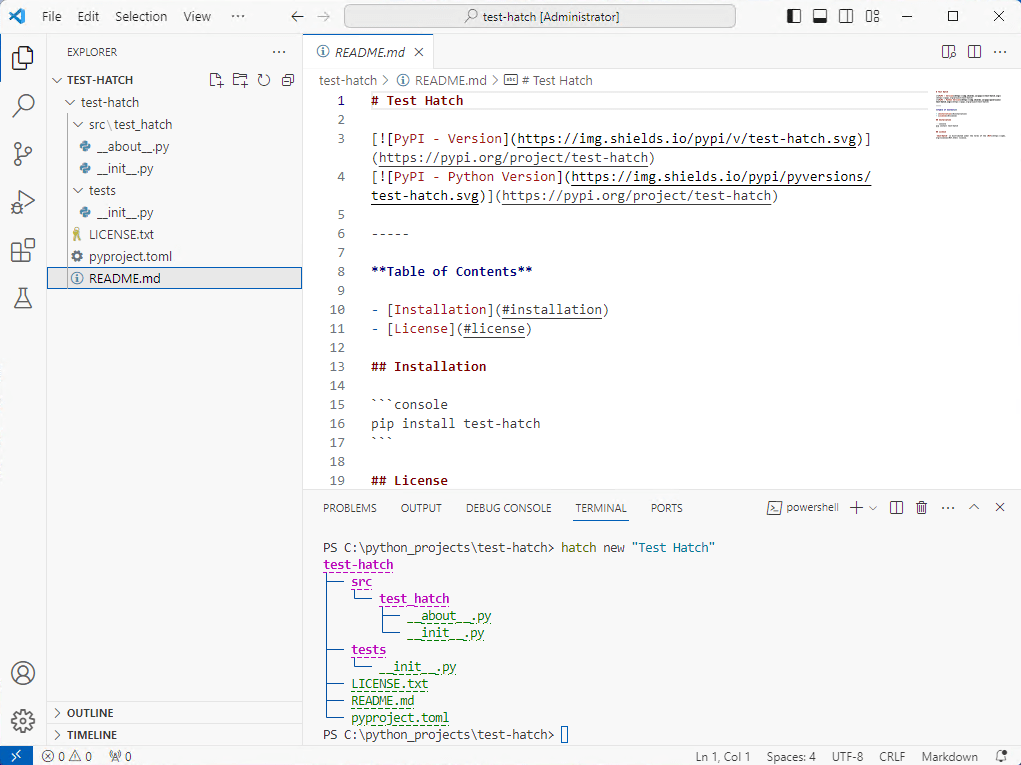
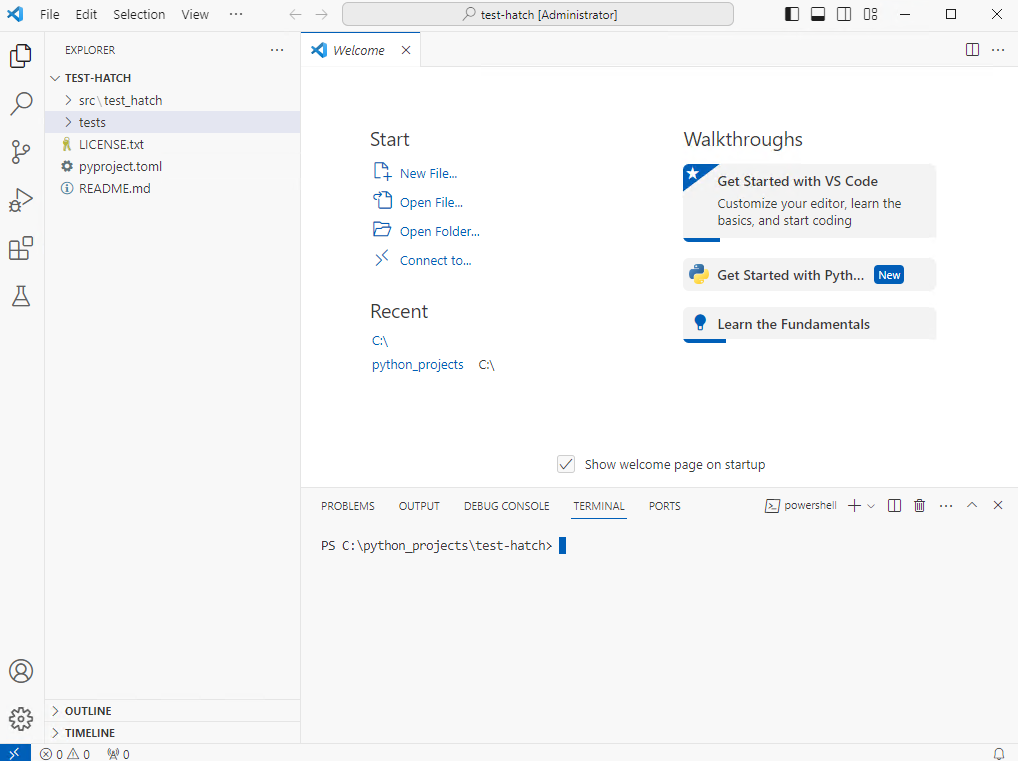
Modify hatch-vscode-python.md

diff --git a/hatch-vscode-python/hatch-vscode-python.md b/hatch-vscode-python/hatch-vscode-python.md
@@ -72,7 +72,7 @@ _Рисунок 3 — Открытие папки_
 
 ![Подтверждение доступа к папке](img/open-folder_02.png)
 
-_Рисунок 4 — Подтверждение доступа к папке_
+_Рисунок 4— Подтверждение доступа к папке_
 
 И включите режим автосохранения, чтобы не забывать сохранять изменения в файле:
 
@@ -93,6 +93,12 @@ cd test-hatch
 hatch shell
 ```
 
+Создаем файл `src\test\hatch\main.py`:
+
+```py
+
+```
+
 ## Установка Hatch и создание проекта
 
 Вызываем консоль `Ctrl` → `` ` `` (`Ctrl` → `Ё`), прописываем команду установки Hatch глобально (после ввода команды не забываем нажать `Enter`):
@@ -101,17 +107,21 @@ hatch shell
 pip install hatch
 ```
 
-![Установка Hatch](img/install.png)
+![Установка Hatch](img/install_01.png)
 
 _Рисунок 6 — Установка Hatch_
 
-Если команда не срабатывает, то попробуйте `python -m pip install hatch`.
+![Успешная установка Hatch](img/install_02.png)
+
+_Рисунок 7 — Успешная установка Hatch_
+
+Если команда не срабатывает, то попробуйте `python -m pip install hatch`. Если и это не сработает, то скорее всего неправильно установили Python.
 
 Возможно, что вас попросят обновить `pip` через команду `python.exe -m pip install --upgrade pip`. Почему бы и нет (скриншот приведен из другого эксперимента с Hatch):
 
 ![Обновление pip](img/update-pip.png)
 
-_Рисунок 7 — Обновление pip_
+_Рисунок 8 — Обновление pip_
 
 Теперь можно создать проект для Hatch. Вместо `Test Hatch` введите имя своего проекта:
 
@@ -121,17 +131,19 @@ hatch new "Test Hatch"
 
 ![Инициализация проекта](img/init_01.png)
 
-_Рисунок 8 — Инициализация проекта_
+_Рисунок 9 — Инициализация проекта_
 
 Итак, у нас из названия проекта `Test Hatch` создалась папка `test-hatch`. Если вы назвали проект по другому, то и название папки будет другим. Командой `cd test-hatch` переходим в эту папку проекта:
 
 ![Переход в папку проекта](img/init_02.png)
 
-_Рисунок 9 — Переход в папку проекта_
+_Рисунок 10 — Переход в папку проекта_
 
-![](img/project.png)
+Но лучше сразу откройте через `File` → `Open Folder...` вновь созданную папку `C:\python-projects\test-hatch` и откройте терминал `Ctrl` → `` ` `` (`Ctrl` → `Ё`):
 
-_Рисунок 10 — _
+![Открытая папка проекта test-hatch](img/project.png)
+
+_Рисунок 11 — Открытая папка проекта test-hatch_
 
 ## Виртуальное окружение
 
@@ -141,52 +153,76 @@ _Рисунок 10 — _
 hatch shell
 ```
 
-![](img/environment_01.png)
+Так как виртуальное окружение после создания сразу активируется, то у вас в терминале в круглых скобках должно появиться название окружения:
 
-_Рисунок 11 — _
+![Созданное виртуальное окружение](img/environment_01.png)
 
-![](img/fix_01.png)
+_Рисунок 12 — Созданное виртуальное окружение_
 
-_Рисунок 12 — _
+Если вдруг это не произошло, и, например, появилась подобная ошибка, как на рисунке ниже, то вполне возможно ошибка с групповыми политиками:
 
-![](img/fix_02.png)
+![Ошибка при активации виртуального окружения](img/fix_01.png)
 
-_Рисунок 13 — _
+_Рисунок 13 — Ошибка при активации виртуального окружения_
 
-![](img/new_file_01.png)
+Одно из возможных вариантов решения проблемы:
 
-_Рисунок 14 — _
+```console
+Set-ExecutionPolicy -Scope CurrentUser -ExecutionPolicy Unrestricted
+```
 
-![](img/new_file_02.png)
+![Исправление ошибки активации виртуального окружения](img/fix_02.png)
 
-_Рисунок 15 — _
+_Рисунок 14 — Исправление ошибки активации виртуального окружения_
 
-![](img/environment_02.png)
+После этого перегрузите VSCode и в терминале вызовите опять `hatch shell`.
 
-_Рисунок 16 — _
+Созданное виртуальное окружение можно найти в папке `%LOCALAPPDATA%\hatch\env\virtual`, если это потребуется.
+
+Теперь создадим `main.py` в папке `scr/test_hatch`. Например, для этого можно кликнуть на указанную папку правой кнопкой мыши, а затем выбрать `New File...`:
+
+![Выбор пункта создания нового файла](img/new_file_01.png)
+
+_Рисунок 15 — Выбор пункта создания нового файла_
+
+Вводим имя файла `main.py` и нажимаем `Enter`:
+
+![Создание нового файла](img/new_file_02.png)
+
+_Рисунок 16 — Создание нового файла_
+
+Теперь VSCode нужно объяснить, чтобы он запускал Python из нашего виртуального окружения. VSCode к сожалению сам найти его не может. Для этого щелкаем в панели внизу справа по глобальной версии Python, а затем выбираем пункт `Enter interpreter path...`, а потом `Find...`:
+
+![Выбор Enter interpreter path](img/environment_02.png)
+
+_Рисунок 17 — Выбор Enter interpreter path_
 
 ![](img/environment_03.png)
 
-_Рисунок 17 — _
+_Рисунок 18 — _
 
 ![](img/environment_04.png)
 
-_Рисунок 18 — _
+_Рисунок 19 — _
 
 ![](img/environment_05.png)
 
-_Рисунок 19 — _
+_Рисунок 20 — _
 
 ![](img/environment_06.png)
 
-_Рисунок 20 — _
+_Рисунок 21 — _
 
 ## Добавление библиотеки
 
 ![](img/dependencies_01.png)
 
-_Рисунок 21 — _
+_Рисунок 22 — _
 
 ![](img/dependencies_03.png)
 
-_Рисунок 22 — _
+_Рисунок 23 — _
+
+```py
+
+```
